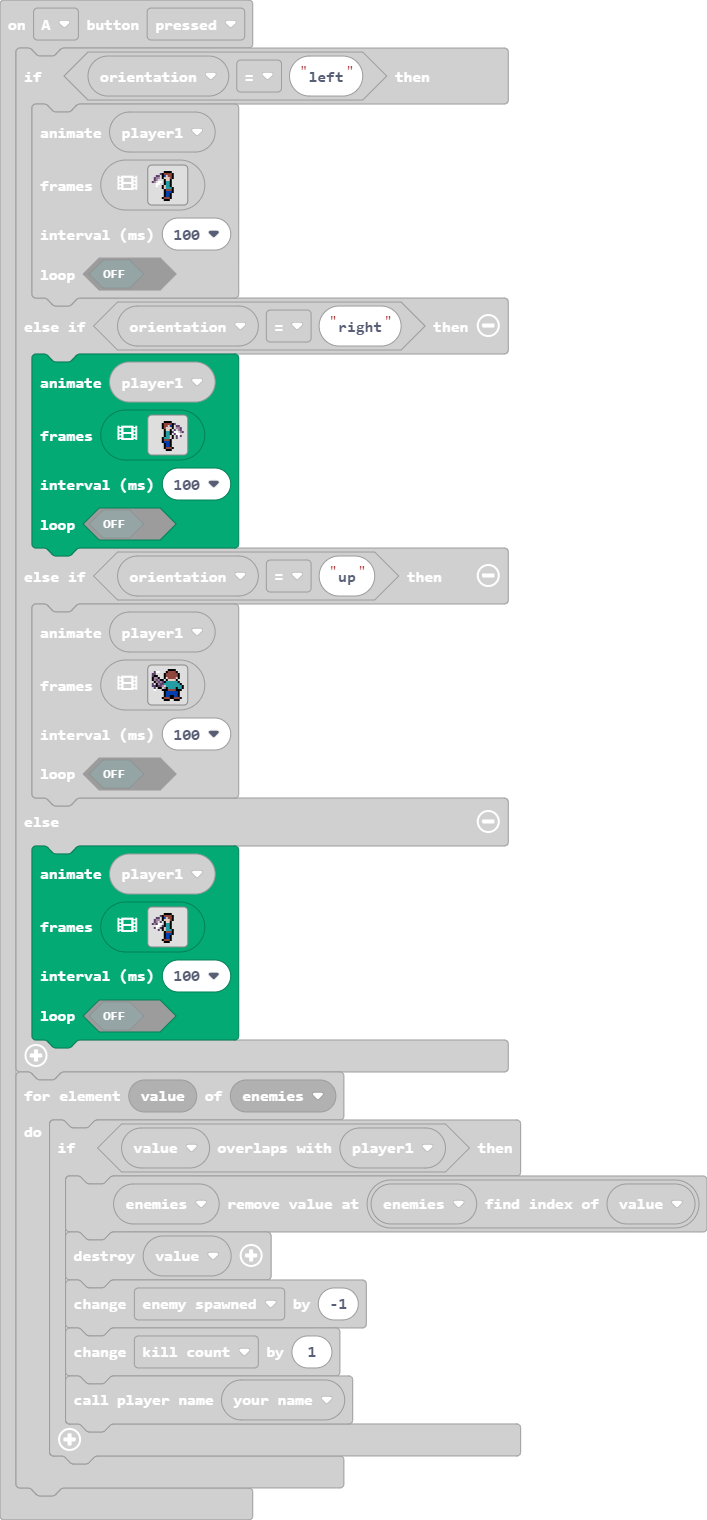
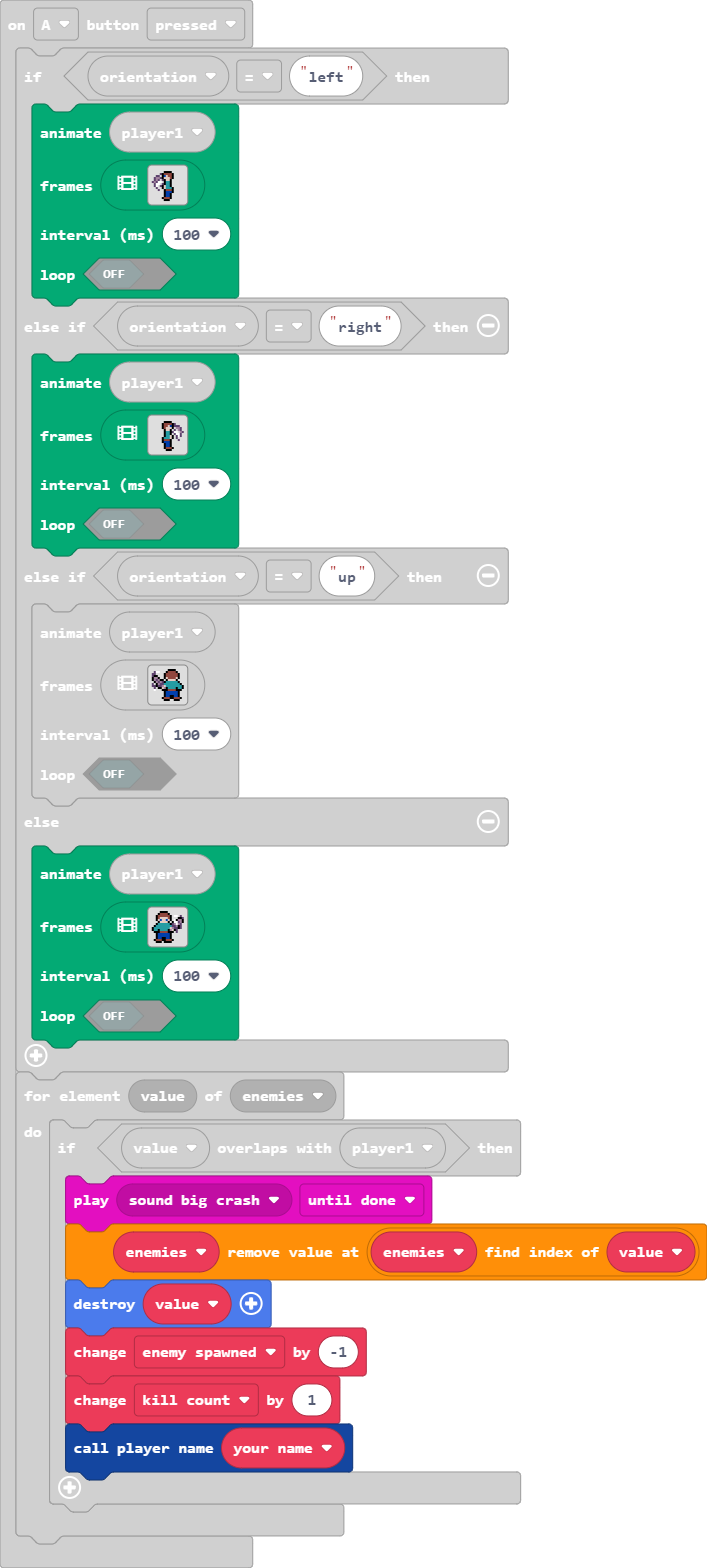
Update main.blocks, main.ts

Changed region(s): [[0.0311, 0.0, 1.0, 0.9895], [0.5601, 0.0309, 0.5912, 0.0618]]

diff --git a/main.ts b/main.ts
@@ -11,13 +11,13 @@ controller.A.onEvent(ControllerButtonEvent.Pressed, function () {
             . . . . . . f f f f . . . . . . 
             . . . . c f e e e e f . . . . . 
             . . c c . f 8 d e e f . . . . . 
-            . c b b . f d d d e f . . . . . 
-            . c b . . . f d d f . . . . . . 
-            c b . 1 1 . f 6 6 f . . . . . . 
-            . . 1 1 . . f 6 6 f . . . . . . 
-            . . 1 . . f d 6 6 f . . . . . . 
-            . . . . . f d 6 6 6 f . . . . . 
-            . . . . . . f e e e f . . . . . 
+            . c b b c f d d d e f . . . . . 
+            . c b c . c f d d f . . . . . . 
+            c b c 1 1 . f 6 6 f . . . . . . 
+            . c 1 1 . c f 6 6 f . . . . . . 
+            . c 1 . c f d 6 6 f . . . . . . 
+            . . c . . f d 6 6 6 f . . . . . 
+            . . . c . . f e e e f . . . . . 
             . . . . . . f 8 8 8 f . . . . . 
             . . . . . . f 8 8 f . . . . . . 
             . . . . . . f 8 8 f . . . . . . 
@@ -28,13 +28,13 @@ controller.A.onEvent(ControllerButtonEvent.Pressed, function () {
             . . . . . . f f f f . . . . . . 
             . . . . . f e e e e f . . . . . 
             . . . . . f 8 d e e f . . . . . 
-            . . c . . f d d d e f . . . . . 
+            . . c . c f d d d e f . . . . . 
             . c c . 1 . f d d f . . . . . . 
             b c b 1 1 . f 6 6 f . . . . . . 
-            c b . 1 . . f 6 6 f . . . . . . 
-            c . 1 1 . f d 6 6 f . . . . . . 
+            c b c 1 . c f 6 6 f . . . . . . 
+            c . 1 1 c f d 6 6 f . . . . . . 
             c c 1 . . f d 6 6 6 f . . . . . 
-            . c . . . . f e e e f . . . . . 
+            . c . c c . f e e e f . . . . . 
             . . . . . . f 8 8 8 f . . . . . 
             . . . . . . f 8 8 f . . . . . . 
             . . . . . . f 8 8 f . . . . . . 
@@ -68,14 +68,14 @@ controller.A.onEvent(ControllerButtonEvent.Pressed, function () {
             . . . . . . . . . . . . . . . . 
             . . . . . . f f f f . . . . . . 
             . . . . . f e e e e f c . . . . 
-            . . . . . f e e d 8 f . c c . . 
+            . . . . . f e e d 8 f c c c . . 
             . . . . . f e d d d f . b b c . 
             . . . . . . f d d f . c . b c . 
             . . . . . . f 6 6 f c 1 1 . b c 
-            . . . . . . f 6 6 f . c 1 1 . . 
+            . . . . . . f 6 6 f . c 1 1 c . 
             . . . . . . f 6 6 d f . c 1 c . 
             . . . . . f 6 6 6 d f . c . . . 
-            . . . . . f e e e f . . . . . . 
+            . . . . . f e e e f . . . c . . 
             . . . . . f 8 8 8 f . . . . . . 
             . . . . . . f 8 8 f . . . . . . 
             . . . . . . f 8 8 f . . . . . . 
@@ -94,7 +94,7 @@ controller.A.onEvent(ControllerButtonEvent.Pressed, function () {
             . . . . . f 6 6 6 d f c . 1 c c 
             . . . . . f e e e f . . c . c . 
             . . . . . f 8 8 8 f . . . c . . 
-            . . . . . . f 8 8 f . . . . . . 
+            . . . . . . f 8 8 f . . . . c . 
             . . . . . . f 8 8 f . . . . . . 
             . . . . . . f e e e f . . . . . 
             . . . . . . . f f f . . . . . . 
@@ -181,56 +181,56 @@ controller.A.onEvent(ControllerButtonEvent.Pressed, function () {
         animation.runImageAnimation(
         player1,
         [img`
-            . . . . . . . . . . . . . . . . 
-            . . . . . . f f f f . . . . . . 
-            . . . . c f e e e e f . . . . . 
-            . . c c . f 8 d e e f . . . . . 
-            . c b b . f d d d e f . . . . . 
-            . c b . c . f d d f . . . . . . 
-            c b c 1 1 . f 6 6 f . . . . . . 
-            . . 1 1 . c f 6 6 f . . . . . . 
-            . c 1 . c f d 6 6 f . . . . . . 
-            . . . c . f d 6 6 6 f . . . . . 
-            . . . . . . f e e e f . . . . . 
-            . . . . . . f 8 8 8 f . . . . . 
-            . . . . . . f 8 8 f . . . . . . 
-            . . . . . . f 8 8 f . . . . . . 
-            . . . . . f e e e f . . . . . . 
-            . . . . . . f f f . . . . . . . 
+            . . . . f f f f . . . . . . . . 
+            . . . f e e e e f . . . . . . . 
+            . . f e e e e e e f . 1 1 . c . 
+            . . f e d d d d e f . . . f f c 
+            . . f d 8 d d 8 d f . 1 f b b f 
+            . . . f d d d d f . f 1 1 c b f 
+            . . f 6 6 6 6 6 6 f c b 1 b c . 
+            . f 6 6 6 6 6 6 6 6 c c b f c . 
+            f 6 6 6 6 6 6 6 6 d b c c f c . 
+            f 6 6 f 6 6 6 6 f b d f c . . . 
+            . f f f e e e e f f f . c . . . 
+            . . f 8 8 8 8 8 8 f . . . . . . 
+            . . f 8 8 8 8 8 8 f . . . . . . 
+            . . f 8 8 f f 8 8 f . . . . . . 
+            . f e e e f f e e e f . . . . . 
+            . . f f f . f f f f . . . . . . 
             `,img`
-            . . . . . . . . . . . . . . . . 
-            . . . . . . f f f f . . . . . . 
-            . . . . . f e e e e f . . . . . 
-            . . . . . f 8 d e e f . . . . . 
-            . . c c . f d d d e f . . . . . 
-            . c c c 1 . f d d f . . . . . . 
-            b c b 1 1 c f 6 6 f . . . . . . 
-            c b . 1 . . f 6 6 f . . . . . . 
-            c . 1 1 c f d 6 6 f . . . . . . 
-            c c 1 . . f d 6 6 6 f . . . . . 
-            . c . c c . f e e e f . . . . . 
-            . . c . . . f 8 8 8 f . . . . . 
-            . . . . . . f 8 8 f . . . . . . 
-            . . . . . . f 8 8 f . . . . . . 
-            . . . . . f e e e f . . . . . . 
-            . . . . . . f f f . . . . . . . 
+            . . . . f f f f . . . . . . . . 
+            . . . f e e e e f . . . . . . . 
+            . . f e e e e e e f . . . . . . 
+            . . f e d d d d e f . . . . . . 
+            . . f d 8 d d 8 d f . . . . . . 
+            . . . f d d d d f . . . . . . . 
+            . . f 6 6 6 6 6 6 f . . . . . . 
+            . f 6 6 6 6 6 6 6 6 f . . . . . 
+            f 6 6 6 6 6 6 6 6 d b . . . . . 
+            f 6 6 1 6 6 6 b f b d . . . . . 
+            . f f f 1 1 e e b f f 1 . . . . 
+            . . f 8 8 c 8 8 1 1 1 . . . . . 
+            . . f 8 8 8 c c 8 f . . . . . . 
+            . . f 8 8 f f 8 8 f . . . . . . 
+            . f e e e f f e e e f . . . . . 
+            . . f f f . f f f f . . . . . . 
             `,img`
-            . . . . . . . . . . . . . . . . 
-            . . . . . . f f f f . . . . . . 
-            . . . . . f e e e e f . . . . . 
-            . . . . . f 8 d e e f . . . . . 
-            . . . . . f d d d e f . . . . . 
-            . . . . . . f d d f . . . . . . 
-            . . . . . . f 6 6 f . . . . . . 
-            . . . . . . f 6 6 f . . . . . . 
-            . . . . . f d 6 6 f . . . . . . 
-            . . . . . f d 6 6 6 f . . . . . 
-            . . . . . . f e e e f . . . . . 
-            . . . . . . f 8 8 8 f . . . . . 
-            . . . . . . f 8 8 f . . . . . . 
-            . . . . . . f 8 8 f . . . . . . 
-            . . . . . f e e e f . . . . . . 
-            . . . . . . f f f . . . . . . . 
+            . . . . f f f f . . . . . . . . 
+            . . . f e e e e f . . . . . . . 
+            . . f e e e e e e f . . . . . . 
+            . . f e d d d d e f . . . f f f 
+            . . f d 8 d d 8 d f . . f b b f 
+            . . . f d d d d f . f f b c b f 
+            . . f 6 6 6 6 6 6 f c b c b f . 
+            . f 6 6 6 6 6 6 6 6 c c b f . . 
+            f 6 6 6 6 6 6 6 6 d b c c f . . 
+            f 6 6 f 6 6 6 6 f b d f f . . . 
+            . f f f e e e e f f f . . . . . 
+            . . f 8 8 8 8 8 8 f . . . . . . 
+            . . f 8 8 8 8 8 8 f . . . . . . 
+            . . f 8 8 f f 8 8 f . . . . . . 
+            . f e e e f f e e e f . . . . . 
+            . . f f f . f f f f . . . . . . 
             `],
         100,
         false
@@ -238,6 +238,7 @@ controller.A.onEvent(ControllerButtonEvent.Pressed, function () {
     }
     for (let value of enemies) {
         if (value.overlapsWith(player1)) {
+            music.play(music.melodyPlayable(music.bigCrash), music.PlaybackMode.UntilDone)
             enemies.removeAt(enemies.indexOf(value))
             sprites.destroy(value)
             enemy_spawned += -1
